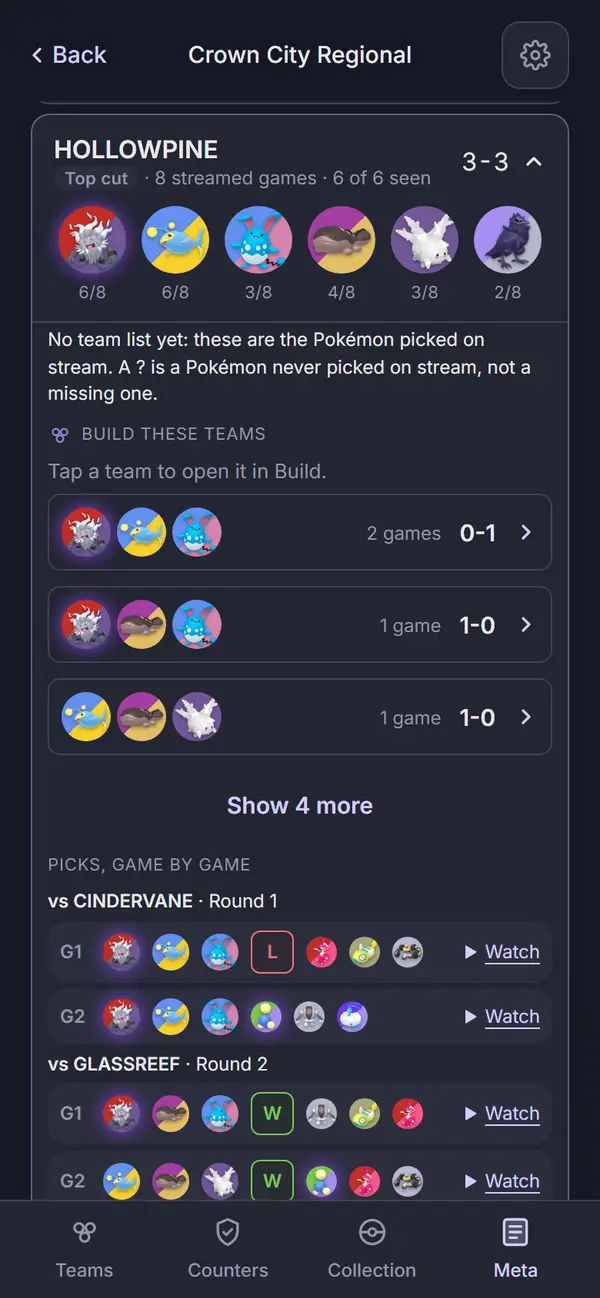
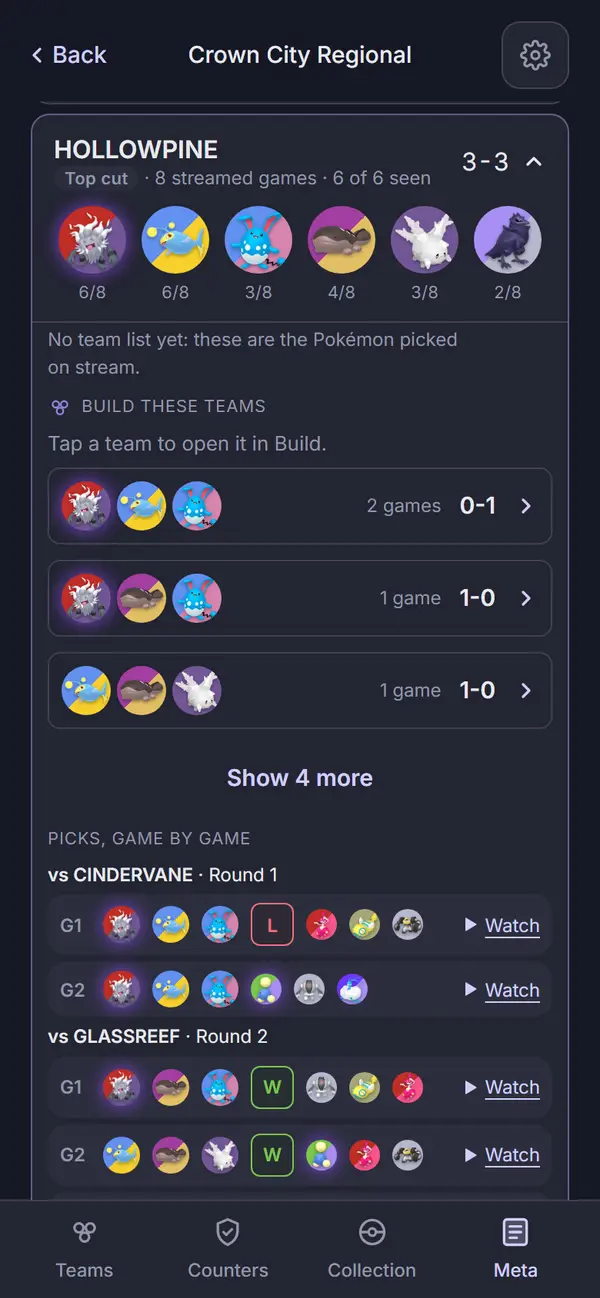
Event page: the no-team-list note as muted fine print, ? sentence only with a ? slot
Claude-Session: https://claude.ai/code/session_01JV5rEdQrSr8u2B9eggSexk

diff --git a/apps/web/test/eventPage.test.tsx b/apps/web/test/eventPage.test.tsx
@@ -317,7 +317,9 @@ describe('EventPage', () => {
     const card = cardOf('Brock');
     const body = card.querySelector('.row-body') as HTMLElement;
     const note = body.firstElementChild as HTMLElement;
-    expect(note).toHaveClass('tb-fine');
+    // Fine print, as the page's other notes: small and muted, not body text.
+    expect(note).toHaveClass('tb-fine', 'muted');
+    // Brock showed 3 of 6, so the "?" sentence explains the empty slots.
     expect(note.textContent).toBe(
       'No team list yet: these are the Pokémon picked on stream. A ? is a Pokémon never picked on stream, not a missing one.',
     );
@@ -329,6 +331,31 @@ describe('EventPage', () => {
     renderAt('#/meta/events/nice?p=Ash');
     await screen.findByText('Players');
     expect(cardOf('Ash')).not.toHaveTextContent('No team list yet');
+  });
+
+  it('with all six seen, the no-team-list note drops the ? sentence', async () => {
+    // Misty's third game shows three more: six of six seen, no "?" slot to explain.
+    const d = detail();
+    const semis = d.matches[1] as EventMatchV1;
+    semis.games = [
+      ...semis.games,
+      game(
+        3,
+        new Date(Date.UTC(2027, 9, 17, 0, 0, 300)).toISOString(),
+        ['snorlax', 'swampert', 'skarmory'],
+        OPP,
+        'left',
+      ),
+    ];
+    stub.detail = d;
+    renderAt('#/meta/events/nice?p=Misty');
+    await screen.findByText('Players');
+    const card = cardOf('Misty');
+    expect(card).toHaveTextContent('6 of 6 seen');
+    const note = (card.querySelector('.row-body') as HTMLElement).firstElementChild as HTMLElement;
+    expect(note).toHaveClass('tb-fine', 'muted');
+    expect(note.textContent).toBe('No team list yet: these are the Pokémon picked on stream.');
+    expect(card.querySelector('.six-unseen')).toBeNull();
   });
 
   it('under Players, one line says what the records and the counts count', async () => {

diff --git a/apps/web/src/components/meta/PlayerCard.tsx b/apps/web/src/components/meta/PlayerCard.tsx
@@ -298,9 +298,12 @@ export function PlayerCard({
       {open ? (
         <div className="row-body">
           {player.fromRoster ? null : (
-            <p className="tb-fine">
-              No team list yet: these are the Pokémon picked on stream. A ? is a Pokémon never
-              picked on stream, not a missing one.
+            <p className="tb-fine muted">
+              No team list yet: these are the Pokémon picked on stream.
+              {/* Only a six with a "?" slot needs the "?" explained. */}
+              {player.seen < 6
+                ? ' A ? is a Pokémon never picked on stream, not a missing one.'
+                : null}
             </p>
           )}
           <BuildTheseTeams player={player} />

diff --git a/docs/design/audits/tournament-pages.md b/docs/design/audits/tournament-pages.md
@@ -92,7 +92,8 @@ Changes:
    `aria-label`. The "Watch day N" rows lead with the same triangle.
 6. "No team list yet: these are the Pokémon picked on stream. A ? is a Pokémon never picked on
    stream, not a missing one." sits directly under the open card's six (players without a team
-   list only).
+   list only), as muted fine print (`tb-fine muted`). The "?" sentence shows only when a slot is
+   unseen (fewer than 6 seen); HOLLOWPINE in the captures shows 6 of 6, so just the first.
 7. Ongoing: `eventOngoing` (`@pickthree/engine/meta`) is true while the viewer's local date is on
    or before the end date. A `Tag` "Ongoing" leads the list card's dates line and the event page's
    facts line, and while ongoing each event day with no matches gets a `tb-fine` "Day N: no games
@@ -112,7 +113,7 @@ games and day 3 has none yet.
 | `event-ongoing`: Ongoing in the facts line, "Day 3: no games yet", the Players line | ![](img/event-ongoing-clarity-dark.webp) | ![](img/event-ongoing-clarity-light.webp) |
 
 Automated checks: `npm run web:audit` exit 0 with no finding on any tournament screen in either
-theme; `npm run web:screens` exit 0; lint, typecheck and check-colors clean; web 959 tests and
+theme; `npm run web:screens` exit 0; lint, typecheck and check-colors clean; web 960 tests and
 engine `events.test.ts` 23 tests pass.
 
 Open for review: at 320px a game row (G label, two threes, chip, Watch) no longer fits on one line, so Watch
